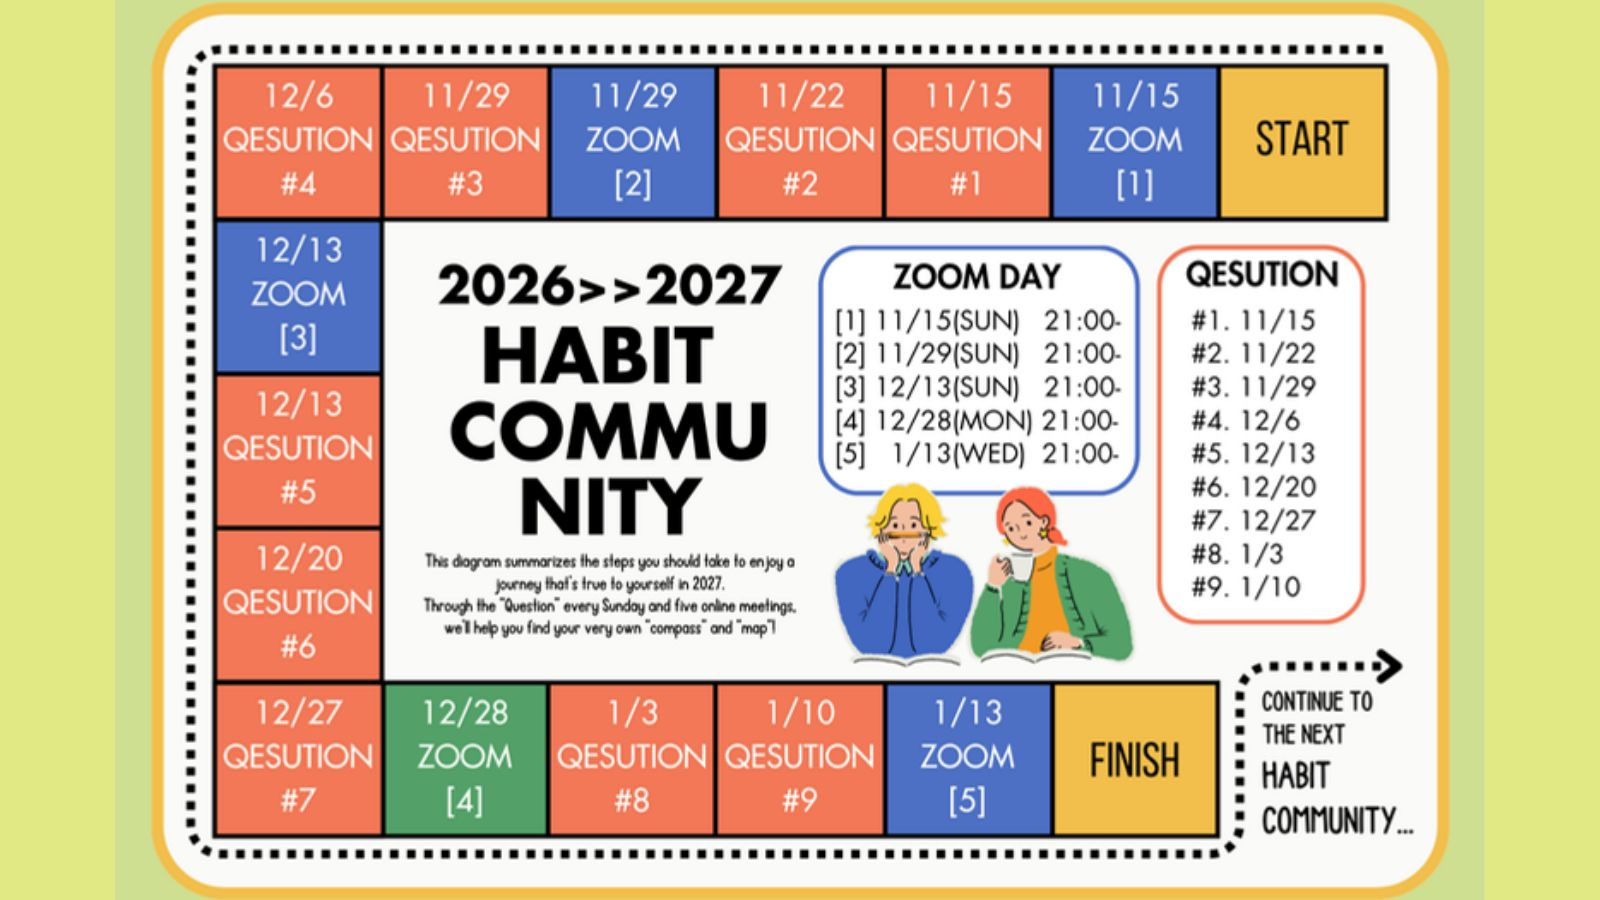
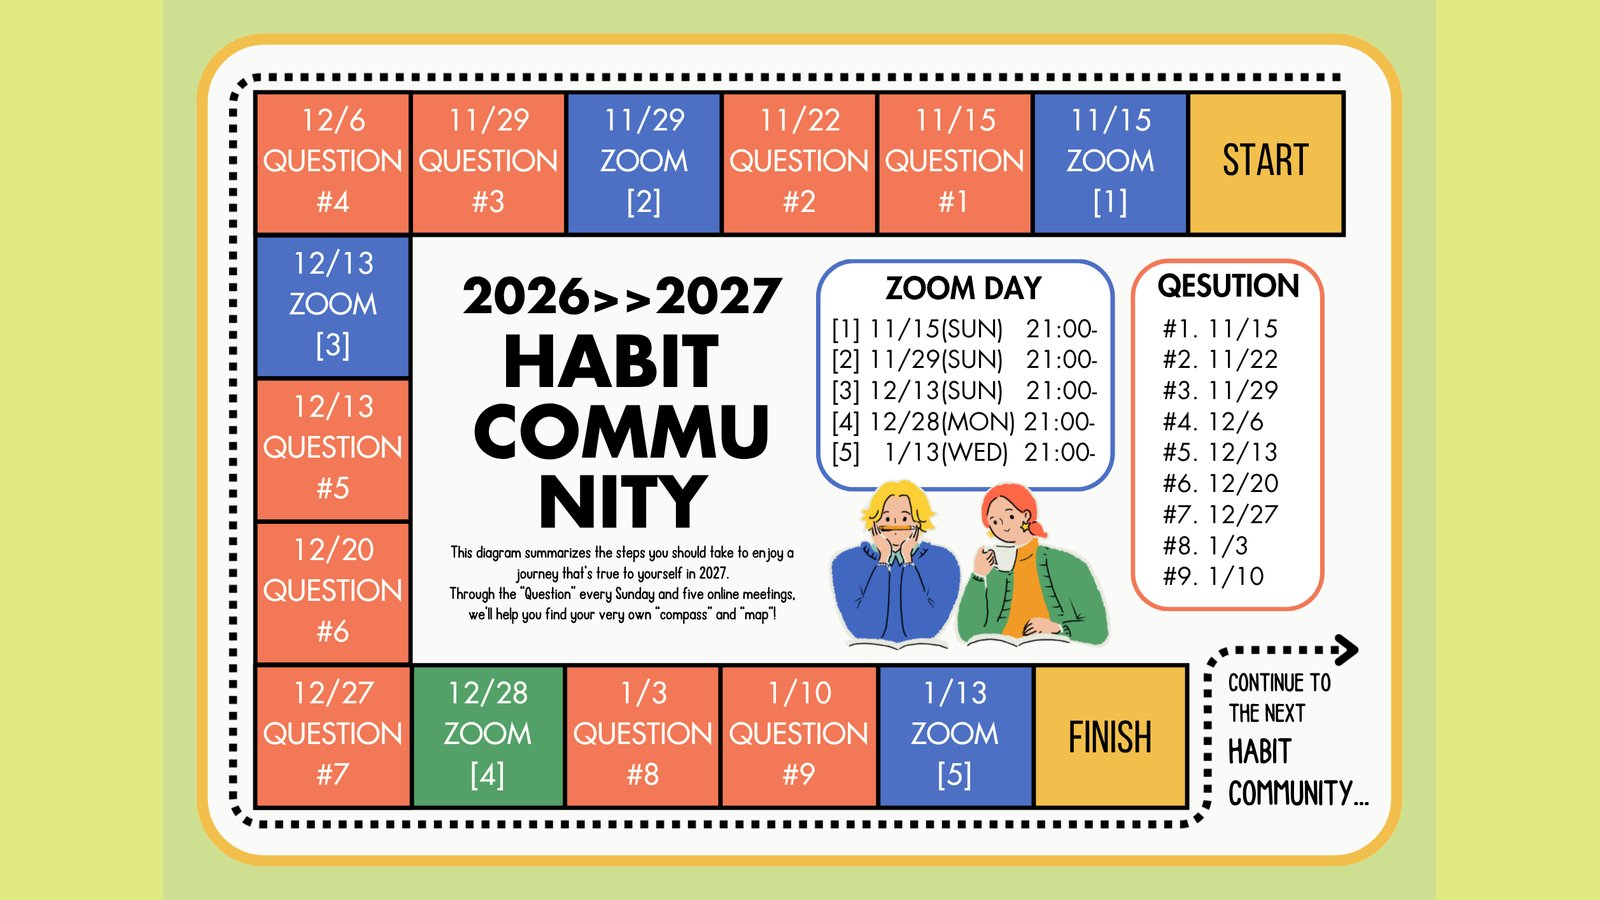
キックオフのスライド9枚目をすごろく（日付あり・QUESTION修正版）に差し替え

diff --git a/assets/app.js b/assets/app.js
@@ -142,7 +142,7 @@
   }
 
   function slides({ dir, count }) {
-    const src = (i) => `${dir}/${String(i).padStart(2, "0")}.jpg`;
+    const src = (i) => `${dir}/${String(i).padStart(2, "0")}.jpg?v=2`; /* 差し替え時はここの v を上げる */
     const img = $("#slideImg"), pos = $("#pos"), thumbs = $("#thumbs");
     thumbs.innerHTML = Array.from({ length: count }, (_, k) =>
       `<button type="button" data-i="${k + 1}" aria-label="${k + 1}枚目"><img src="${src(k + 1)}" alt="" loading="lazy" width="96" height="54"></button>`).join("");
